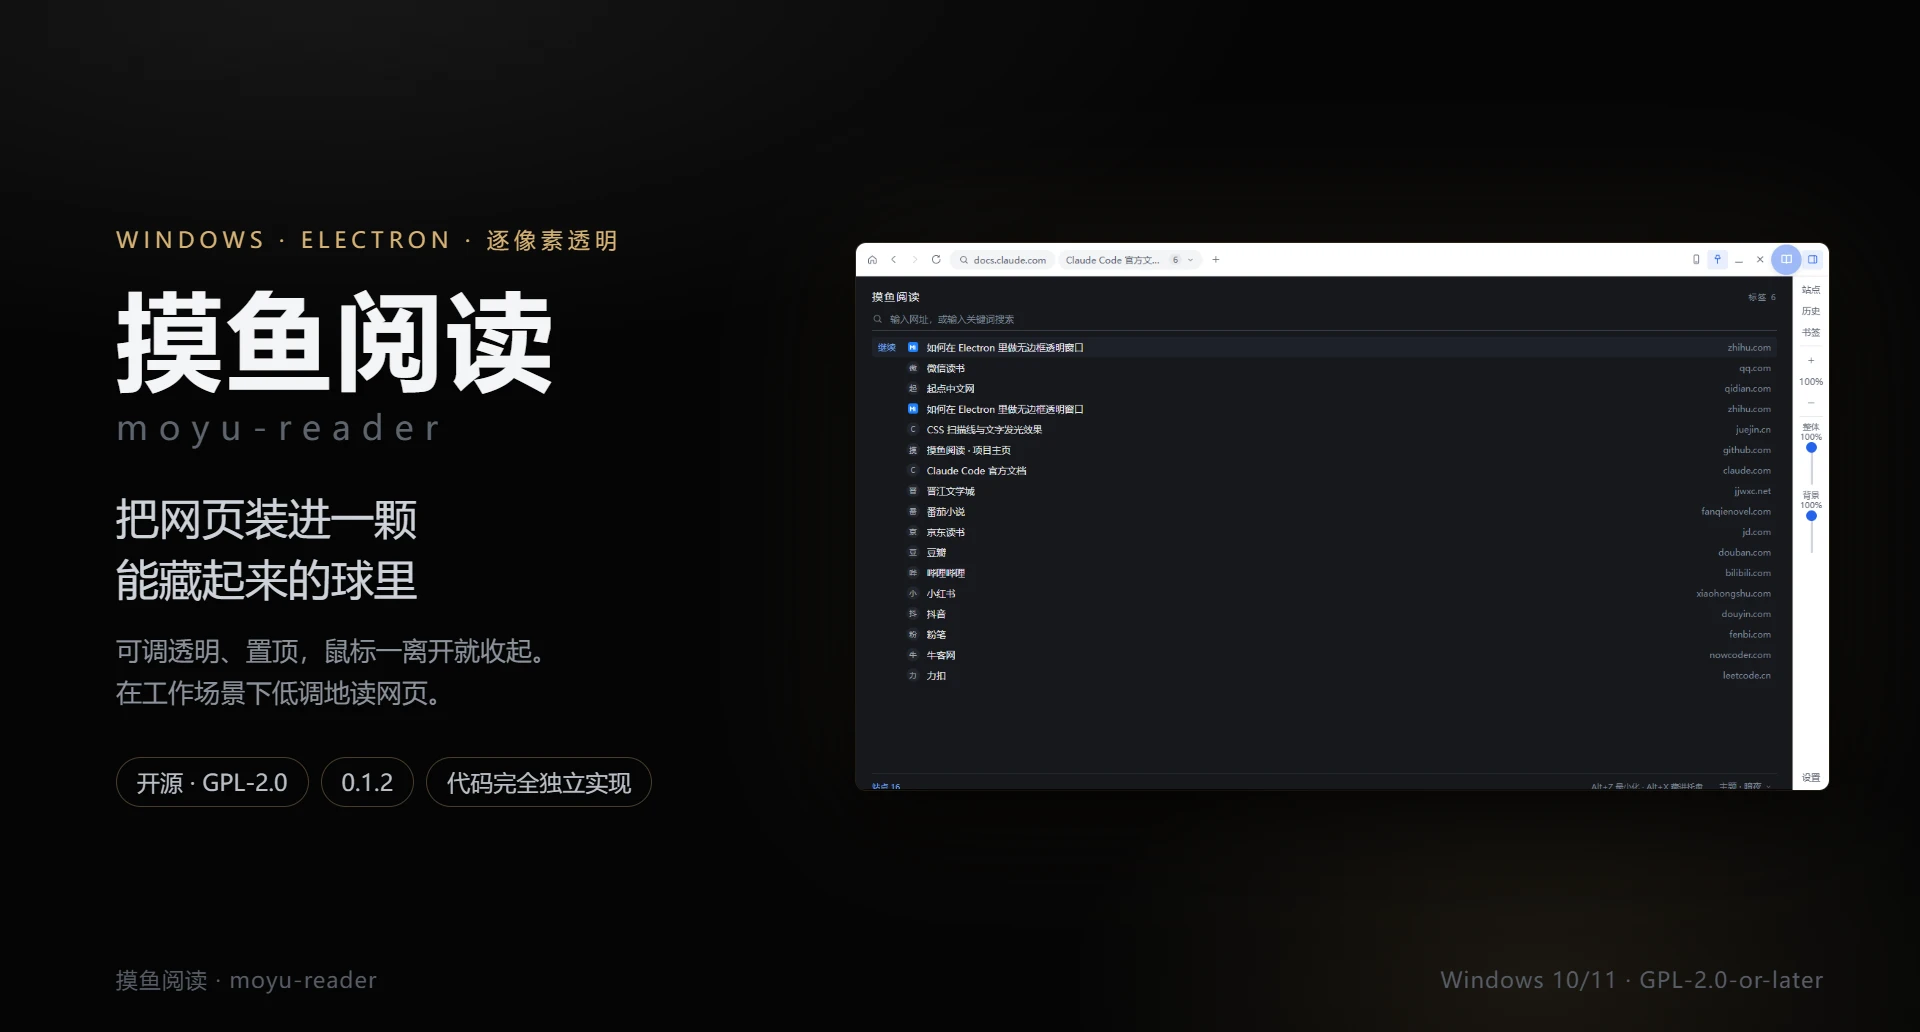
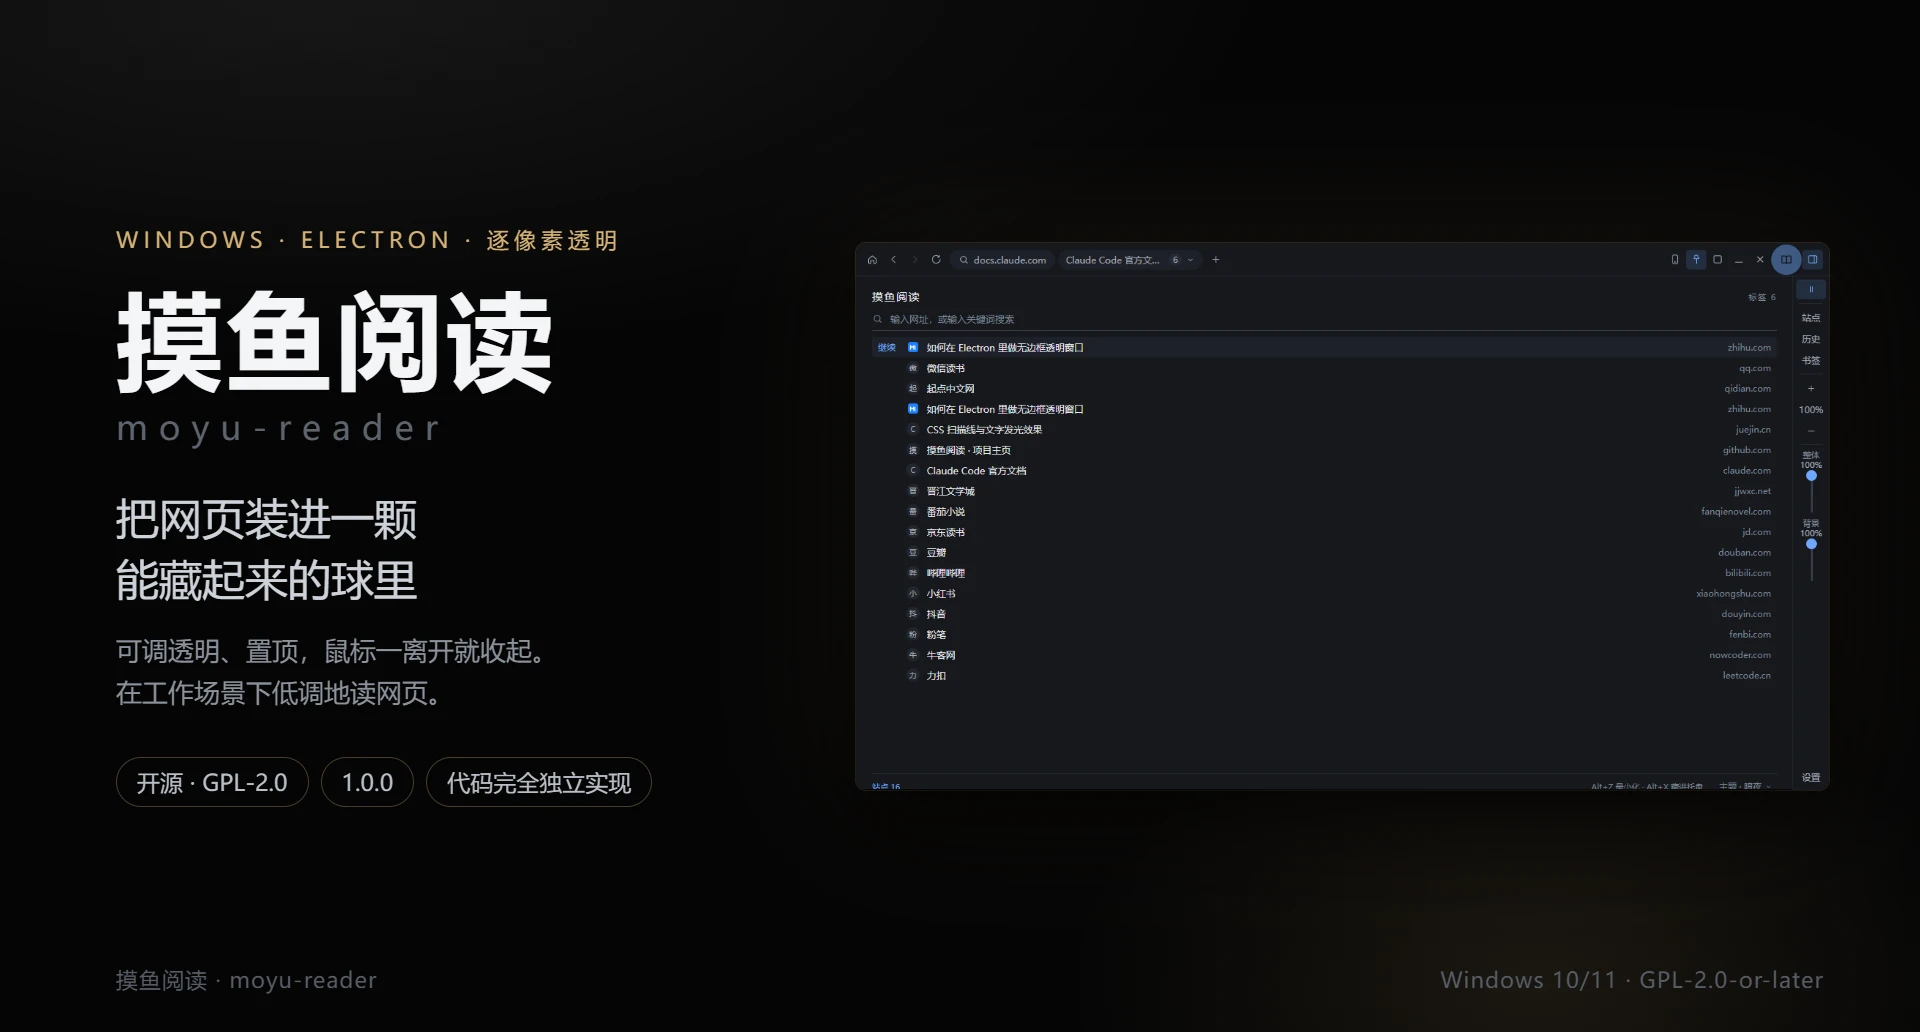
docs: README 按 1.0.0 重做，配图跟着主题改成成套的
README 全量校订，不是只改版本号：

- 版本行改成 1.0.0 = 里程碑 1 完成的收尾，「当前有什么」与「还没有什么」分开写
- 新增 **主题** 一段：三套管的是整个界面（顶栏、地址栏、标签条、右栏、悬浮球、
  弹出面板、系统设置页，连起始页一起换），**网页永远不受影响**是硬边界；
  形态跟配色一起换，只有起始页的扫描线与暗角不进界面——界面中部必须逐像素
  透明，那是这个产品赖以存在的机制；四份文档各自加载同一份主题层、各自在自己
  的根上写同一个属性，因为文档之间没有继承路径
- **起始页** 一段收窄回它自己的事（搜索、顺序、四段排版、`useRows.ts`）
- 老板键与托盘：写明「现形」会把整扇窗恢复到 100%，与把「整体」滑块拖到最右端
  等价——配置一起落盘，右栏与设置页那两条滑块跟着回到最右
- 架构要点从十四条到十五条：补「按钮与输入框不继承颜色」（设置页不加载 base.css，
  漏了这一条那一页就是黑底黑字，暗夜下量出来 1.18:1）
- 验证工具、目录、preview.js 的参数表补上新探针与新样式表的位置
- 安装一节不写死安装包文件名：文件名跟着版本号走，写死之后每发一版都会对不上，
  而 releases/latest 现在给的还是 v0.1.5

配图重做：主题既然管到了整个界面，「某一套主题的页面 + 另一种主题的顶栏」就是
用户切不出来的一态，README 里不该有。三张成品图改成页面与界面底板**成套**取
（`CHROME_OF`），名片与「三套主题」那张各换成本主题的一套；封面右下角的版本号
改成从 package.json 读，上一版那里写着 0.1.2 而版本早走到 0.1.5 了。

Changed region(s): [[0.4375, 0.2171, 0.9688, 0.7752], [0.1875, 0.7442, 0.2188, 0.7752]]

diff --git a/spike/readme-assets.js b/spike/readme-assets.js
@@ -52,6 +52,14 @@ const PAPER = '#f4f5f7'
 const DIM = '#8b929c'
 const FAINT = '#5d646e'
 const FONT = `'Microsoft YaHei', 'PingFang SC', 'Segoe UI', system-ui, sans-serif`
+
+/**
+ * 封面右下角那枚版本号。
+ *
+ * 从 package.json 读，不在这里另抄一份：这一格写着 0.1.2 而版本早就走到 0.1.5 了，
+ * 图与代码对不上，而图是读者唯一会照着去下载的那个东西。
+ */
+const VERSION = require('../package.json').version
 /** 垫在透明界面底下的模拟桌面。截界面原图时故意不垫，留到版式里统一垫 */
 const DESK = 'radial-gradient(130% 100% at 18% 0%, #fbfcfd 0%, #eef1f5 45%, #dde2e8 100%)'
 /**
@@ -63,14 +71,20 @@ const DESK_MID = 'radial-gradient(120% 100% at 20% 0%, #d5dae0 0%, #c2c8cf 50%, 
 
 /** 用到的原图，一次列全。缺哪张就在启动时说清缺哪张，而不是猜 */
 const NEEDED = [
-  'chrome.png', //             界面底板，**带透明通道**：内容区是空的，等着垫网页
-  'chrome-bg0.png', //         同上，背景透明度拉到 0
+  /*
+   * 三套主题各有自己的一份界面底板，**都带透明通道**：内容区是空的，等着垫网页。
+   *
+   * 为什么不共用一张：主题现在管的是整个界面，顶栏与右栏也跟着换。把磷绿的起始页
+   * 衬在纸白的顶栏上，拼出来的那一帧是**切不出来**的一态——README 里的图只能是
+   * 用户真能看到的样子。因此每一张都由「同一套主题的底 + 同一套主题的页」拼成。
+   */
+  'chrome.png', //             界面底板 · 纸白
+  'chrome-night.png', //       界面底板 · 暗夜
+  'chrome-crt-green.png', //   界面底板 · 磷绿
+  'chrome-crt-green-bg0.png', // 同上，背景透明度拉到 0
   'home-paper.png', //         起始页 · 纸白（1280×720）
   'home-night.png', //         起始页 · 暗夜（1280×720）
   'home-crt-green.png', //     起始页 · 磷绿（1280×720）
-  'home-paper-480x270.png', // 起始页三套主题的迷你档（三格里用）
-  'home-night-480x270.png',
-  'home-crt-green-480x270.png',
   'settings.png', //           系统设置
   'popover.png', //            弹出面板（带透明通道，面板窗口本身是透明的）
   'ball.png' //                收起态那颗球（带透明通道）
@@ -105,9 +119,9 @@ function sizeOf(file) {
  * 网页由另一个 WebContentsView 画在「顶栏之下、右栏之左」那个矩形里。
  * 因此抓了两张图（界面一张带透明通道的、页面一张完整的），在同一个内容区矩形里对齐。
  *
- * `scale` 是相对 1280×720 的缩放。`chromeFile` 默认是常态那块界面底板，
- * 传 `chrome-bg0.png` 就得到「底板淡到 0」的一态——合成方式完全相同，只有那一层不同，
- * 于是两张图能直接比。
+ * `scale` 是相对 1280×720 的缩放。`chromeFile` 是与这一页**同一套主题**的那块界面
+ * 底板（见 CHROME_OF）；传 `chrome-crt-green-bg0.png` 就得到「底板淡到 0」的一态——
+ * 合成方式完全相同，只有那一层不同，于是两张图能直接比。
  */
 function appWindow(pageFile, scale, chromeFile = 'chrome.png') {
   const w = Math.round(WIN_W * scale)
@@ -177,6 +191,18 @@ const SHELL = `
  * 左边是名字与定位，右边是**真实的界面**。作品集级封面的常见做法是把界面图当主体、
  * 文字当标题——这里沿用：名字按海报字号给，界面图只承担「它长这样」。
  */
+/**
+ * 某套主题配哪一份界面底板。
+ *
+ * 顶栏与右栏现在跟着主题走，于是「页面用哪套主题」同时决定了「底板用哪一张」——
+ * 两者必须成套，否则拼出来的是切不出来的一态（见 NEEDED 里的说明）。
+ */
+const CHROME_OF = {
+  paper: 'chrome.png',
+  night: 'chrome-night.png',
+  'crt-green': 'chrome-crt-green.png'
+}
+
 function htmlBanner() {
   return `<!doctype html><html lang="zh-CN"><meta charset="utf-8"><style>${SHELL}
   .wrap { position: absolute; inset: 0; display: flex; align-items: center; gap: 76px; padding: 0 96px 0 116px; }
@@ -200,9 +226,9 @@ function htmlBanner() {
         <div class="latin">moyu-reader</div>
         <div class="tagline">把网页装进一颗<br>能藏起来的球里</div>
         <div class="note">可调透明、置顶，鼠标一离开就收起。<br>在工作场景下低调地读网页。</div>
-        <div class="tags"><span>开源 · GPL-2.0</span><span>0.1.2</span><span>代码完全独立实现</span></div>
+        <div class="tags"><span>开源 · GPL-2.0</span><span>${VERSION}</span><span>代码完全独立实现</span></div>
       </div>
-      <div class="right">${appWindow('home-night.png', 0.76)}</div>
+      <div class="right">${appWindow('home-night.png', 0.76, CHROME_OF.night)}</div>
     </div>
     ${footer('Windows 10/11 · GPL-2.0-or-later')}
   </body></html>`
@@ -227,7 +253,7 @@ function htmlFeatures() {
 
   /*
    * 「底板淡到 0」的两态对照：同一块顶栏，一次底板 100%、一次 0%，上下叠着放。
-   * 两张用的都是同一份合成（界面层 + 磷绿起始页），只有界面层那张底板不同——
+   * 两张用的都是同一份合成（磷绿的界面层 + 磷绿的起始页），只有界面层那张底板不同——
    * 于是读者一眼能看出变的只有那条底：页面纹丝不动，字与图标也没淡。
    */
   const CROP = { x: 640, w: 640, h: 132, out: 492 }
@@ -238,11 +264,18 @@ function htmlFeatures() {
       </div>
     </div>`
 
-  // 三套主题：各切一条同一位置的页头，宽 492 时与原尺寸几乎 1:1，皮的区别看得清
-  const MINI_CROP_H = 96
-  const tk = CROP.out / 480
-  const themeRow = (f) => `<div class="row" style="height:${(MINI_CROP_H * tk).toFixed(1)}px">
-      <img src="${f}" style="width:${CROP.out}px">
+  /*
+   * 三套主题：各切同一块地方——顶栏的右半截、网页的一角，外加最右边那条竖栏。
+   *
+   * 一处 1:1 地裁（不缩放）：宽 492 时窗里的字几乎就是原大小，三套皮的区别才看得清。
+   * 底板与页面**成套**取（见 CHROME_OF）——主题管的是整个界面，把磷绿的页衬在纸白的
+   * 顶栏上拼出来的那一帧，用户根本切不出来。
+   */
+  const THEME_CROP = { x: WIN_W - CROP.out, w: CROP.out, h: 96 }
+  const themeRow = (theme) => `<div class="crop" style="width:${THEME_CROP.w}px;height:${THEME_CROP.h}px">
+      <div style="left:${-THEME_CROP.x}px;top:0">
+        ${appWindow(`home-${theme}.png`, 1, CHROME_OF[theme])}
+      </div>
     </div>`
 
   return `<!doctype html><html lang="zh-CN"><meta charset="utf-8"><style>${SHELL}
@@ -274,9 +307,9 @@ function htmlFeatures() {
       ${card(
         `<div class="stack">
            <div class="tag-mini">界面底板 100%</div>
-           ${crop('chrome.png')}
+           ${crop(CHROME_OF['crt-green'])}
            <div class="tag-mini">界面底板 0%</div>
-           ${crop('chrome-bg0.png')}
+           ${crop('chrome-crt-green-bg0.png')}
          </div>`,
         'desk-mid',
         '底板可以淡到 0',
@@ -284,13 +317,13 @@ function htmlFeatures() {
       )}
       ${card(
         `<div class="stack" style="gap:9px">
-           ${themeRow('home-paper-480x270.png')}
-           ${themeRow('home-night-480x270.png')}
-           ${themeRow('home-crt-green-480x270.png')}
+           ${themeRow('paper')}
+           ${themeRow('night')}
+           ${themeRow('crt-green')}
          </div>`,
-        '',
-        '三套主题，一副骨架',
-        '纸白 / 暗夜 / 磷绿，<br>划分与操作完全一致。'
+        'desk-mid',
+        '三套主题，整个界面',
+        '顶栏、右栏、起始页一起换。<br>网页永远不受影响。'
       )}
     </div>
     ${footer('截图取自真实渲染的无头窗口')}
@@ -341,7 +374,7 @@ function htmlShots() {
       <p>顶栏一条、右侧栏一条，其余让给网页</p>
     </div>
     <div class="grid">
-      ${cell('界面骨架', '顶栏 · 右侧栏 · 网页', `${appWindow('home-crt-green.png', FRAME_W / WIN_W)}`)}
+      ${cell('界面骨架', '顶栏 · 右侧栏 · 网页', `${appWindow('home-crt-green.png', FRAME_W / WIN_W, CHROME_OF['crt-green'])}`)}
       ${cell('起始页', '纸白 / 暗夜 / 磷绿', `<img src="home-paper.png">`)}
       ${cell('系统设置', '窗口内的一页', `<img src="settings.png">`)}
       ${cell('弹出面板', '站点 / 历史 / 书签 / 显示', pad(`<img src="popover.png" style="width:340px">`))}
